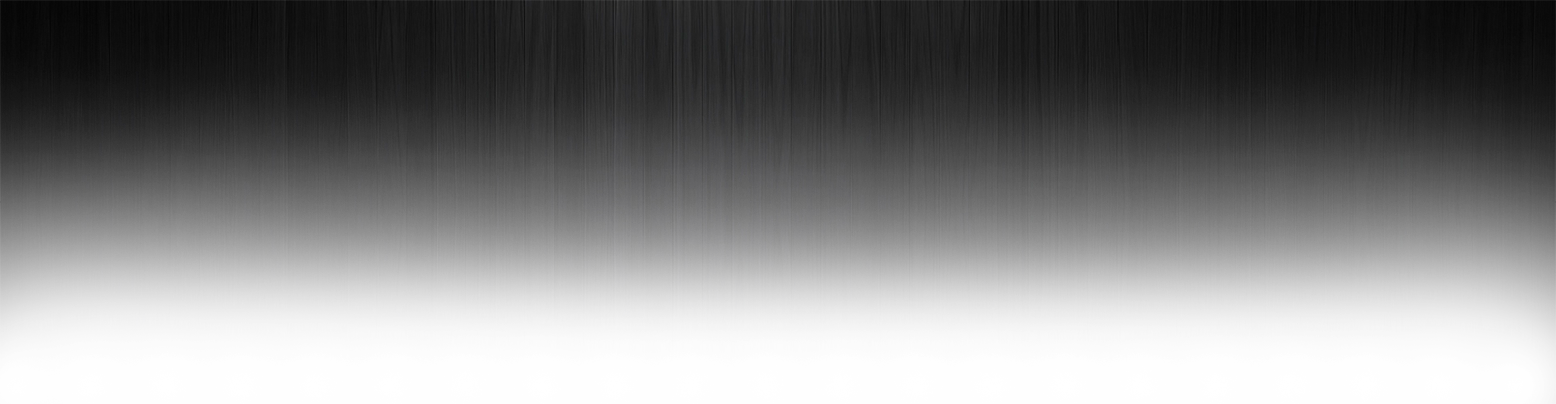
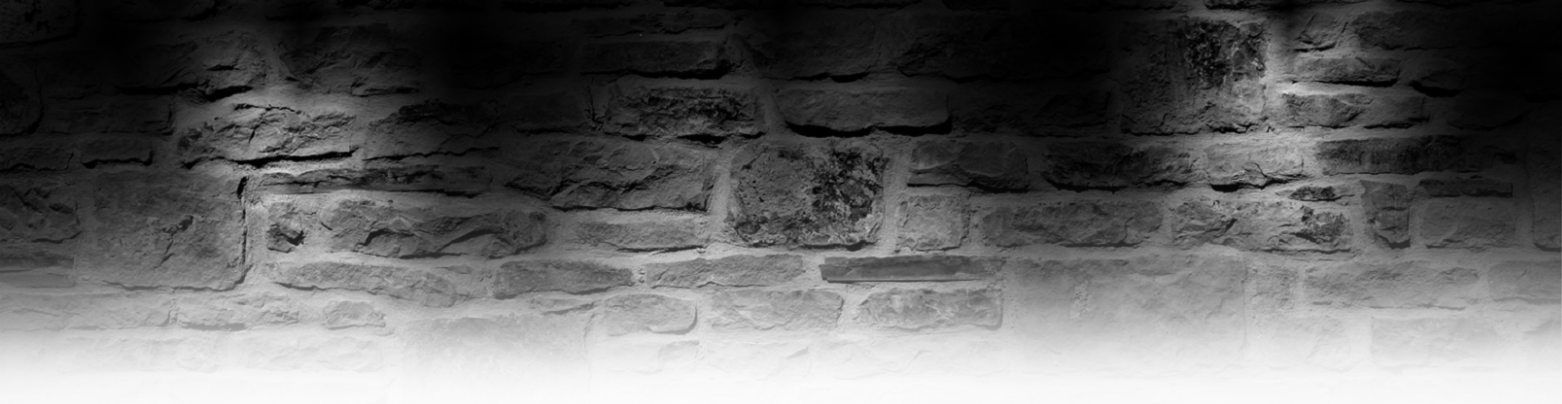
work on view

diff --git a/www/css/index.css b/www/css/index.css
@@ -88,7 +88,10 @@ html, body { margin: 0px; padding: 0px; }
 html { height: 100%; }
 body {  color: rgb(255, 255, 255); position: relative; min-height: 100%; }
 body, table { font-family: 'Open Sans',sans-serif; font-size: 13px; }
-#container, .popup_container { margin: 0px auto; padding: 0px 0px 100px; min-width: 900px; position: relative;background: #000 url('../img/bg.png')  100% 100% no-repeat ; }
+#container, .popup_container { margin: 0px auto; padding: 0px 0px 100px; min-width: 900px; position: relative;background: #000 url('../img/bg.png') no-repeat ; 
+-moz-background-size: 100%;
+-o-background-size: 100%;
+background-size: 100%;}
 #container .content {  }
 #ground { position: absolute; min-width: 900px; width: 100%; height: 100%; overflow: hidden; }
 .header { position: relative; height: 130px; padding: 0px 20px; overflow: hidden; }

diff --git a/www/pieces/message.php b/www/pieces/message.php
@@ -18,7 +18,6 @@ case '/call_us.php': $message='Что-то непонятно? </br> Не зае
 case '/certificate.php': $message='Сертификат  - удобный способ заставить кого-то пойти куда Вам нужно. </br>
  Хотите провести время с пока еще просто коллегой? И у Вас случайно окажется сертификат. </br>
  Хотите, чтобы домашние куда-то исчезли на пару часов и у Вас завалялся сертификат...</br> Это магия сертификата! </br>'; break;
-<<<<<<< .mine
 		
 case '/user.php': $message='Бронивароние комнаты позволит Вам не волноваться, что придя Вы обнаружите кого-то еще. </br> Все будет готово к Вашему приходу. </br> Постарайтесь не опаздывать - Вам еще надо успеть выбраться!'; break;
 		

diff --git a/www/pieces/header.php b/www/pieces/header.php
@@ -5,6 +5,7 @@
   <meta charset="utf-8">
   <meta http-equiv="X-UA-Compatible" content="IE=edge">
   <title> Мир комнат</title>
+  <link rel="shortcut icon" href="../img/2.png">
   <meta name="description" content="">
   <meta name="viewport" content="width=900, maximum-scale=0.8, minimum-scale=0.2, user-scalable=yes">
   <?php
